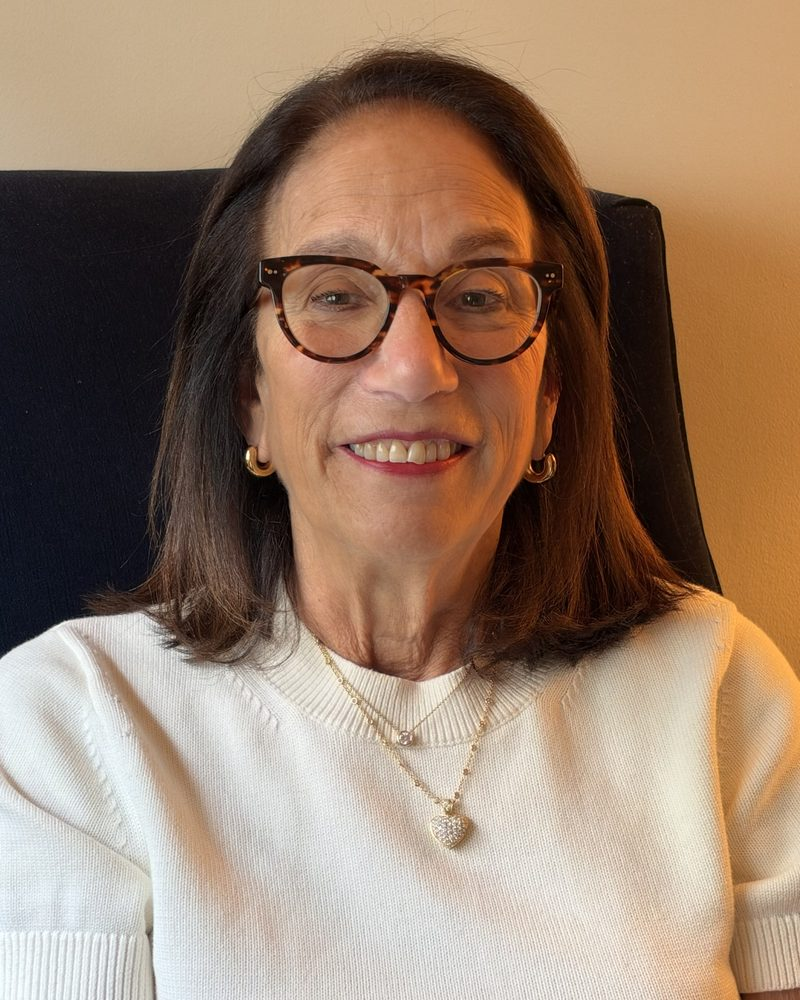
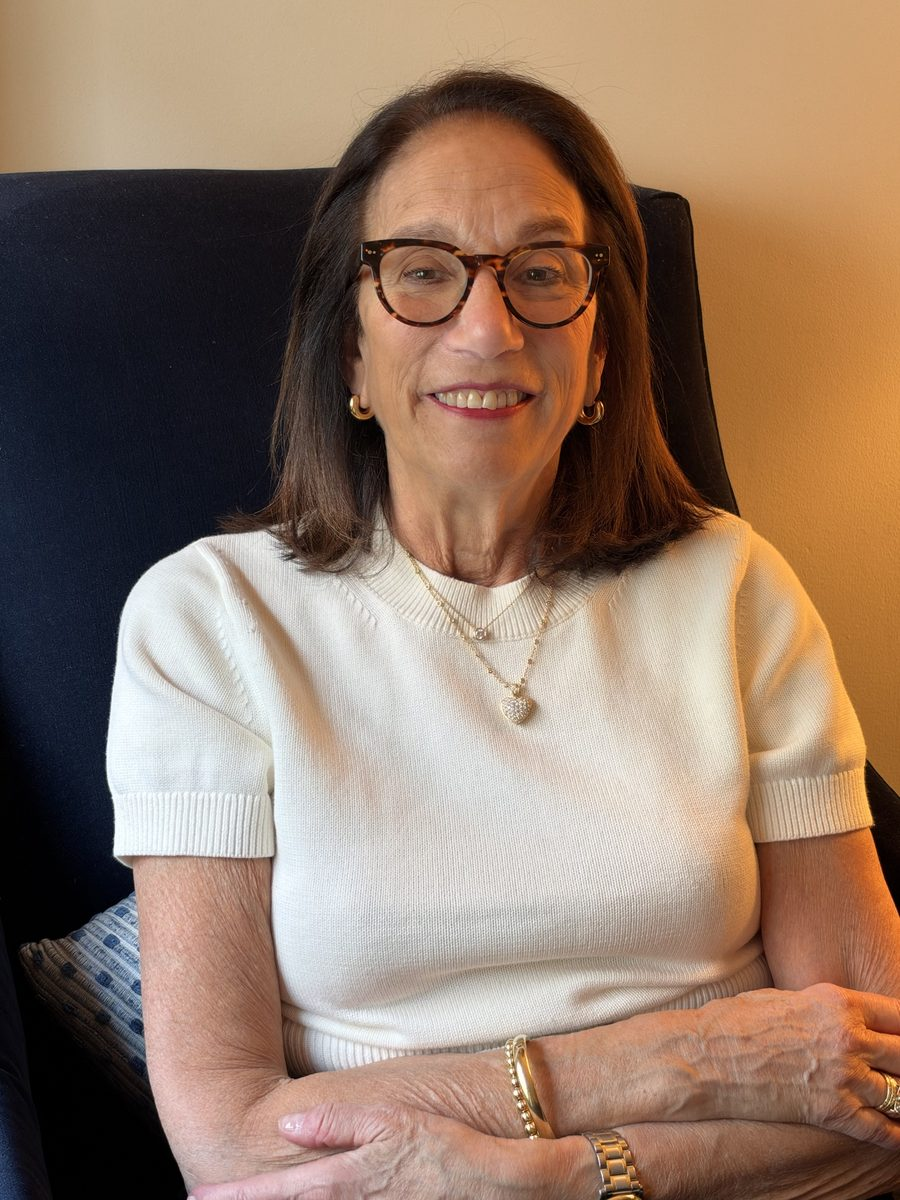
Apply Susan's first round of feedback
- Larger header and nav links
- Brick-arch blossom photo as the hero, cropped low to show both paths
- Beach photo behind the Leonard Cohen quote
- Full uncropped headshot
- Education list added under Experience
- Publications page filled from her resume
- Copy fixes: drop 'adult', NYU Postdoctoral, Price, Stern, Sloan

diff --git a/index.html b/index.html
@@ -25,8 +25,7 @@
 </nav>
 
 <header class="hero">
-  <!-- ponytail: mockup hotlinks Unsplash; save Susan's final picks into assets/ before launch -->
-  <img src="https://images.unsplash.com/photo-1617330605713-f1c8b1dcc09a?w=2000&q=80&auto=format&fit=crop" alt="A path under cherry blossom trees in Central Park">
+  <img src="assets/blossoms-arch.jpg" alt="Cherry blossom trees beside a brick arch in Central Park">
   <div>
     <h1>Susan Klebanoff, PhD</h1>
     <p>Psychologist</p>
@@ -35,10 +34,10 @@
 
 <section id="about">
   <div class="intro">
-    <img src="assets/headshot.jpg" alt="Susan Klebanoff" width="800" height="1000">
+    <img src="assets/headshot.jpg" alt="Susan Klebanoff" width="900" height="1200">
     <div>
       <p>I am a clinical psychologist and psychoanalyst with over 35 years of experience. I am in private practice in New York City. I work both in person in Greenwich Village as well as remotely via zoom.</p>
-      <p>Throughout my career, I have worked with adult individuals, couples and families. I have a particular interest in helping people suffering from loss, trauma, and family estrangement, as well as those going through major life adjustments.</p>
+      <p>Throughout my career, I have worked with individuals, couples and families. I have a particular interest in helping people suffering from loss, trauma, and family estrangement, as well as those going through major life adjustments.</p>
     </div>
   </div>
 </section>
@@ -49,11 +48,9 @@
   <p>I believe therapy must provide a safe-enough holding environment for patients to explore their vulnerabilities. As singer/songwriter Leonard Cohen has written:</p>
 </section>
 
-<!-- Add class "beach" (class="quote beach") to try the beach photo behind this quote -->
-<section class="quote">
+<section class="quote beach">
   <blockquote>
-    <!-- TODO: paste the Leonard Cohen line from Susan's document here -->
-    &ldquo;[Leonard Cohen line from Susan&rsquo;s document]&rdquo;
+    &ldquo;there is a crack, a crack in everything, that’s how the light gets in&rdquo;
     <cite>Leonard Cohen, &ldquo;Anthem&rdquo;</cite>
   </blockquote>
 </section>
@@ -72,17 +69,25 @@
 <section id="writing">
   <h2>Writing</h2>
   <p>I have published and presented on a variety of topics including: Intergenerational transmission of trauma, immigration, eating disorders, family estrangement, adult sibling issues, creativity and unwelcomeness.</p>
-  <p>I am co-editor with Heather Ferguson of the forthcoming book, <i>Revisiting Ferenczi&rsquo;s Unwelcome Child in Turbulent Times</i> (Routledge, 2027). I am also co-editor, with Adrienne Harris and Margery Kalb, of the two-book series: <i>Ghosts in the Consulting Room: Echoes of Trauma in Psychoanalysis</i> and <i>Demons in the Consulting Room: Echoes of Genocide, Slavery and Extreme Trauma in Psychoanalytic Practice</i> (Routledge, 2016). Earlier in my career, I was co-author with Ellen Luborsky of <i>Ups and Downs: How to Beat the Blues and Teen Depression</i> (Price, Stern Sloane, 1999).</p>
+  <p>I am co-editor with Heather Ferguson of the forthcoming book, <i>Revisiting Ferenczi&rsquo;s Unwelcome Child in Turbulent Times</i> (Routledge, 2027). I am also co-editor, with Adrienne Harris and Margery Kalb, of the two-book series: <i>Ghosts in the Consulting Room: Echoes of Trauma in Psychoanalysis</i> and <i>Demons in the Consulting Room: Echoes of Genocide, Slavery and Extreme Trauma in Psychoanalytic Practice</i> (Routledge, 2016). Earlier in my career, I was co-author with Ellen Luborsky of <i>Ups and Downs: How to Beat the Blues and Teen Depression</i> (Price, Stern, Sloan, 1999).</p>
   <p><a href="publications.html">Presentations and publications &rarr;</a></p>
 </section>
 
+<!-- ponytail: still hotlinked from Unsplash; save into assets/ once Susan confirms this photo -->
 <img class="band" src="https://images.unsplash.com/photo-1714046802606-9e96f797e866?w=2000&q=80&auto=format&fit=crop" alt="Cherry trees in bloom in Central Park, with Central Park West behind" loading="lazy">
 
 <section id="experience">
-  <h2>Work Experience</h2>
+  <h2>Experience and Education</h2>
   <p>I am on faculty at the Stephen Mitchell Relational Study Center, where I have served as a supervisor and mentor. I have also supervised interns at NYU Postdoctoral Center for Psychotherapy and Psychoanalysis and National Institute for the Psychotherapies (NIP).</p>
   <p>Before starting my private practice, I worked on an inpatient unit at Long Island Jewish Hospital (Hillside).</p>
-  <p>I also trained at Eating Disorder Resource Center, one of the first outpatient centers in NYC to focus exclusively on the treatment of eating disorders. Before pursuing my PhD in Clinical Psychology at NYU, and training at PNY Postdoctoral Program in Psychotherapy and Psychoanalysis, I worked as a copy editor and free lance writer.</p>
+  <p>I also trained at Eating Disorder Resource Center, one of the first outpatient centers in NYC to focus exclusively on the treatment of eating disorders. Before pursuing my PhD in Clinical Psychology at NYU, and training at NYU Postdoctoral Program in Psychotherapy and Psychoanalysis, I worked as a copy editor and free lance writer.</p>
+
+  <h3>Education</h3>
+  <ul class="pubs">
+    <li>Graduate, New York University Postdoctoral Program in Psychotherapy and Psychoanalysis, 2009</li>
+    <li>Ph.D., Clinical Psychology, New York University, 1986</li>
+    <li>B.A., American Studies, Concentration in the American Family, Yale University, 1974</li>
+  </ul>
 </section>
 
 <section id="supervision" class="tint">

diff --git a/publications.html b/publications.html
@@ -29,18 +29,38 @@
 
   <h3>Books</h3>
   <ul class="pubs">
-    <li><i>Revisiting Ferenczi&rsquo;s Unwelcome Child in Turbulent Times</i>. Co-editor with Heather Ferguson. Routledge, forthcoming 2027.</li>
-    <li><i>Ghosts in the Consulting Room: Echoes of Trauma in Psychoanalysis</i>. Co-editor with Adrienne Harris and Margery Kalb. Routledge, 2016.</li>
-    <li><i>Demons in the Consulting Room: Echoes of Genocide, Slavery and Extreme Trauma in Psychoanalytic Practice</i>. Co-editor with Adrienne Harris and Margery Kalb. Routledge, 2016.</li>
-    <li><i>Ups and Downs: How to Beat the Blues and Teen Depression</i>. Co-author with Ellen Luborsky. Price, Stern Sloane, 1999.</li>
+    <li>Ferguson, H. and Klebanoff, S. (Eds.). <i>Revisiting Ferenczi&rsquo;s Unwelcome Child in Turbulent Times</i>. Routledge, in press.</li>
+    <!-- Resume says 2017 and "...in Psychoanalysis" for volume II; home page copy says 2016 and "...in Psychoanalytic Practice". Confirm with Susan. -->
+    <li>Harris, A., Kalb, M. and Klebanoff, S. (Eds.) (2016). <i>Ghosts in the Consulting Room: Echoes of Trauma in Psychoanalysis</i> (volume I) and <i>Demons in the Consulting Room: Echoes of Genocide, Slavery and Extreme Trauma in Psychoanalytic Practice</i> (volume II). New York: Routledge.</li>
+    <li>Klebanoff, S. and Luborsky, E. (1999). <i>Ups and Downs: How to Beat the Blues and Teen Depression</i>. New York: Price, Stern, Sloan.</li>
   </ul>
 
-  <!-- TODO: fill from Susan's resume -->
   <h3>Articles and Chapters</h3>
-  <p>To be added.</p>
+  <ul class="pubs">
+    <li>Klebanoff, S. (2027). The Stranglehold of Being an Unwelcome Child. <i>Psychoanalytic Perspectives</i>, in press.</li>
+    <li>Klebanoff, S. (2023). The Romani Woman and the (non) Wandering Jew: Immigration, Dissociation, and the Search for Belonging. <i>Psychoanalytic Perspectives</i>, 20(2), 170&ndash;188. <a href="https://doi.org/10.1080/1551806X.2022.2133305">doi.org/10.1080/1551806X.2022.2133305</a></li>
+    <li>Klebanoff, S. (2018). Letting Go. <i>Psychoanalytic Perspectives</i>, 15(1), 117&ndash;121.</li>
+    <li>Klebanoff, S. (2017). Continuity of Self in the Midst of Overwhelming Change or How to Stay Human When the World Has Gone Mad. <i>Psychoanalytic Dialogues</i>, 27(3), 373&ndash;374.</li>
+    <li>Ferguson, H. and Klebanoff, S. (2014). The Enigma of Ana: Lost or Found in Cyberspace? <i>Journal of Infant, Child and Adolescent Psychotherapy</i>, 13(3), 224&ndash;234.</li>
+    <li>Klebanoff, S. (2010). Six Degrees of Separation&hellip;When Real Worlds Collide in Treatment. In J. Petrucelli (Ed.), <i>Knowing, Not Knowing, and Sort of Knowing: Psychoanalysis and the Experience of Uncertainty</i>. London: Karnac.</li>
+    <li>Klebanoff, S. (2006). Discussion of Estelle Shane&rsquo;s &ldquo;Girls, their fathers, and their mothers: Patterned links to ambition and prohibition in women.&rdquo; <i>International Forum of Psychoanalysis</i>, 15, 109&ndash;111.</li>
+  </ul>
 
-  <h3>Presentations</h3>
-  <p>To be added.</p>
+  <h3>Selected Presentations</h3>
+  <ul class="pubs">
+    <li>&ldquo;The Stranglehold of the Unwelcome Child.&rdquo; International Association for Relational Psychoanalysis and Psychotherapy (IARPP) Conference, Toronto, 2026.</li>
+    <li>&ldquo;Thoughts on Family Estrangement: Can a House Divided Still Stand?&rdquo; NYU Postdoctoral Program in Psychotherapy and Psychoanalysis, Interpersonal/Humanistic Track Brunch, 2023.</li>
+    <li>Discussant, &ldquo;The Ethical Attitude of the Analyst in a Traumatized World: Clinic and Theoretical Perspectives.&rdquo; IARPP Conference, New York, 2018.</li>
+    <!-- TODO: Susan is sending venue and year for this one; delete if she can't find them.
+    <li>&ldquo;&lsquo;My Designs Are Harsh, Just Like my Life&rsquo;: Mastering Trauma Through Artistic Endeavor.&rdquo;</li>
+    -->
+    <li>&ldquo;Where From Are You? How a Sense of Loss, Otherness and Hope Gets Transferred from Father to Daughter to Therapeutic Dyad.&rdquo; Division 39 Conference, New York, 2013.</li>
+    <li>&ldquo;Binging on Words, Gasping for Air: Group Dynamics for Compulsive Overeaters.&rdquo; International Association for Psychoanalytic Self Psychology (IAPSP) Conference, Chicago, 2013.</li>
+    <li>&ldquo;Whose Body Is It Anyway?&rdquo; IARPP Conference, New York, 2012.</li>
+    <li>&ldquo;Portrait of a Young Artist Lost in Time and Space.&rdquo; IARPP Conference, Madrid, Spain, 2011.</li>
+    <li>&ldquo;The Gypsy and the (Non) Wandering Jew.&rdquo; Division 39 Conference, Chicago, 2010.</li>
+    <li>&ldquo;History, Her Story, Whose Story Is It Anyway?&rdquo; Division 39 Conference, New York, 2008.</li>
+  </ul>
 </section>
 
 <section id="contact">

diff --git a/style.css b/style.css
@@ -9,7 +9,7 @@
 }
 
 * { box-sizing: border-box; }
-html { scroll-behavior: smooth; scroll-padding-top: 4.5rem; }
+html { scroll-behavior: smooth; scroll-padding-top: 6rem; }
 body {
   margin: 0;
   background: var(--cream);
@@ -22,17 +22,22 @@ a { color: var(--rose); }
 /* Nav */
 nav {
   display: flex; flex-wrap: wrap; align-items: baseline; justify-content: space-between;
-  gap: .25rem 2rem; padding: .9rem 1.5rem;
+  gap: .4rem 2.5rem; padding: 1.25rem 2rem;
   background: var(--cream); border-bottom: 1px solid var(--blush);
 }
 nav a { text-decoration: none; color: var(--ink); }
-nav a:hover { color: var(--rose); }
-nav .brand { font: 500 1.5rem var(--display); }
-nav ul { display: flex; flex-wrap: wrap; gap: .25rem 1.5rem; margin: 0; padding: 0; list-style: none; font-size: .85rem; }
-@media (min-width: 800px) { nav { position: sticky; top: 0; z-index: 1; } }
+nav .brand { font: 500 1.9rem var(--display); }
+nav ul { display: flex; flex-wrap: wrap; gap: .25rem 1.4rem; margin: 0; padding: 0; list-style: none; font-size: 1rem; }
+nav li a { display: block; padding: .3rem 0; border-bottom: 2px solid transparent; }
+nav li a:hover { color: var(--rose); border-color: var(--rose); }
+@media (min-width: 800px) {
+  nav { position: sticky; top: 0; z-index: 1; }
+  nav ul { font-size: 1.15rem; gap: .25rem 2.2rem; }
+}
 
 /* Hero */
-.hero img, .band { width: 100%; height: 55vh; min-height: 260px; object-fit: cover; }
+.hero img, .band { width: 100%; height: 60vh; min-height: 260px; object-fit: cover; }
+.hero img { object-position: center 88%; } /* crop low so both paths show */
 .band { height: 45vh; }
 .hero div { text-align: center; padding: 2.5rem 1.5rem 1rem; }
 h1 { font: 500 clamp(2.4rem, 6vw, 3.6rem)/1.1 var(--display); margin: 0; }
@@ -60,15 +65,16 @@ blockquote {
 }
 blockquote cite { display: block; margin-top: 1rem; font: 400 .9rem var(--body); color: var(--rose); letter-spacing: .08em; }
 section.quote { background: var(--blush); padding: 1.5rem; }
-/* Beach variant: add class "beach" to the quote section */
+/* Beach photo behind the quote, softened so the text stays readable */
 section.quote.beach {
-  background: linear-gradient(rgba(250,246,241,.72), rgba(250,246,241,.72)), url(assets/beach.jpg) center 60% / cover;
+  background: linear-gradient(rgba(250,246,241,.6), rgba(250,246,241,.6)), url(assets/beach.jpg) center 60% / cover;
   padding: 5rem 1.5rem;
 }
 
 /* Publications list */
 .pubs { list-style: none; padding: 0; }
-.pubs li { margin-bottom: 1.3rem; }
+.pubs li { margin-bottom: 1.1rem; }
+h1 + h3 { margin-top: 3rem; }
 
 /* Contact */
 #contact { background: var(--navy); color: var(--cream); text-align: center; }
